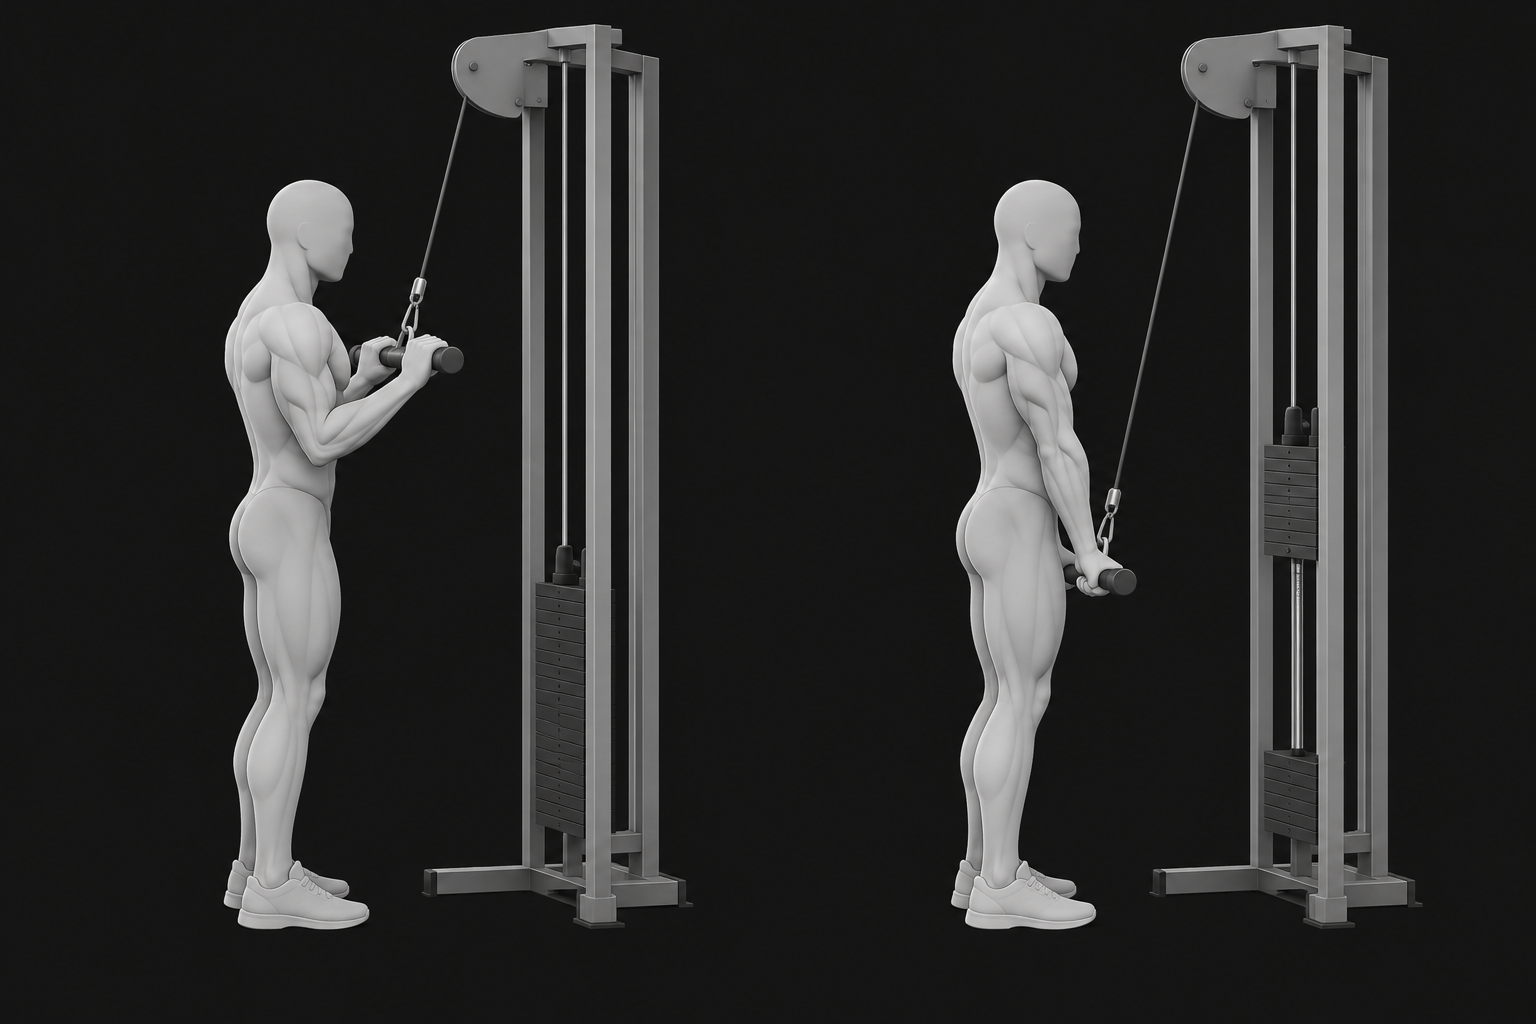
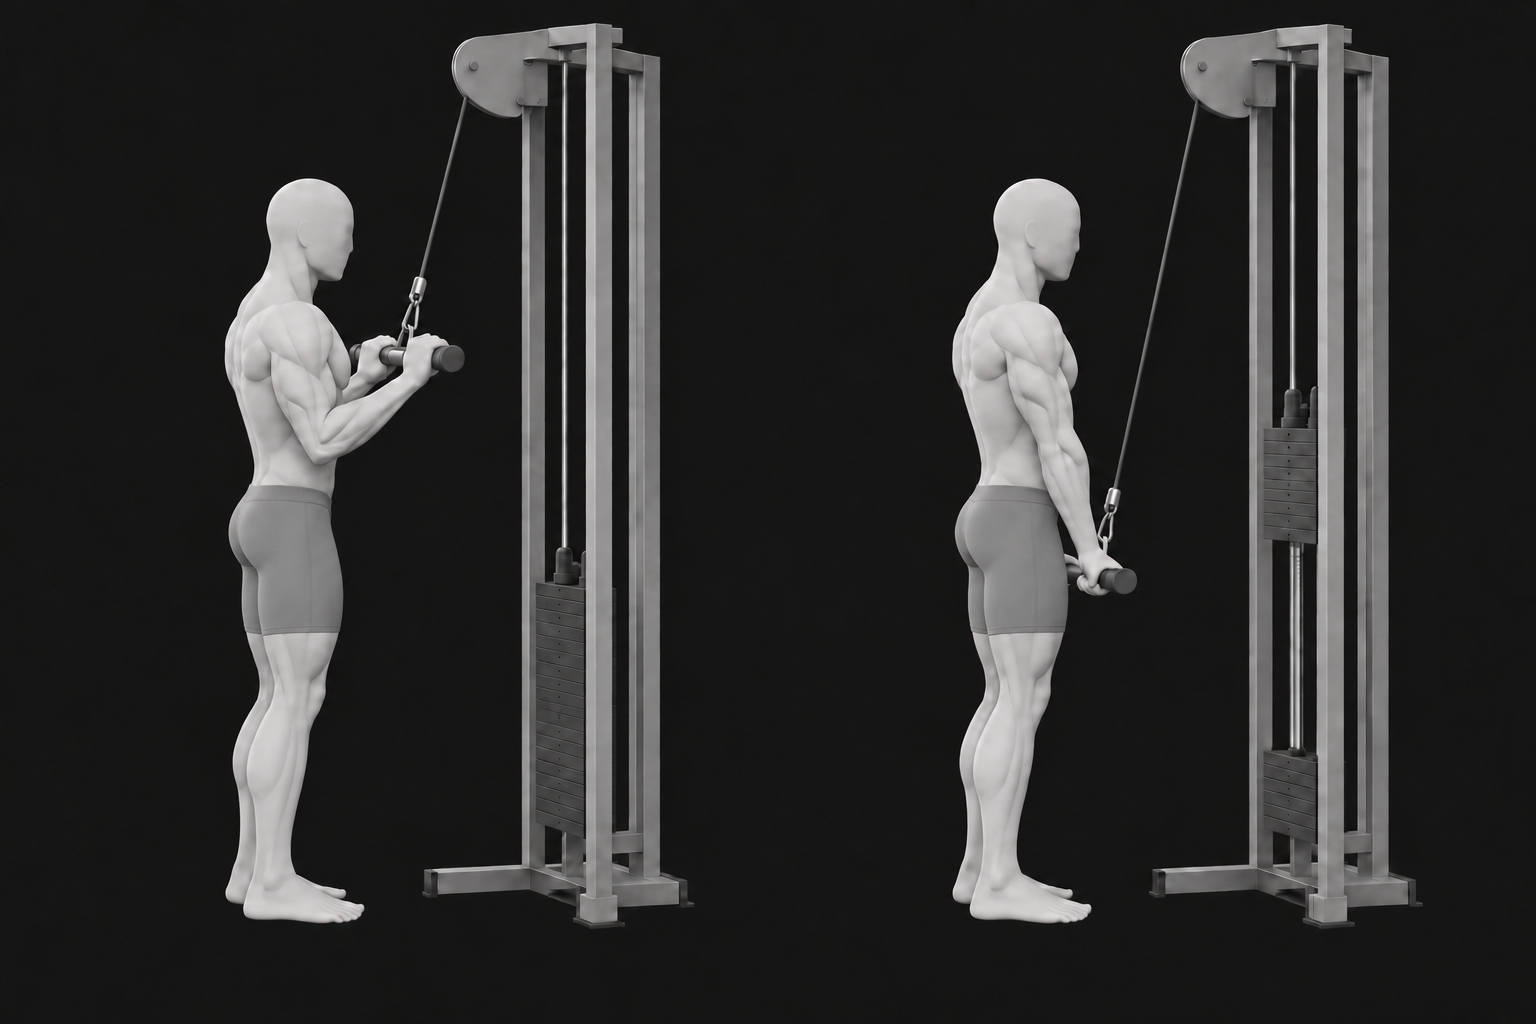
Exercise images: approved pushdown becomes the style reference; shorts, not briefs

diff --git a/docs/exercise-images/BRIEF.md b/docs/exercise-images/BRIEF.md
@@ -22,7 +22,7 @@ so this can be filled in gradually.
 | Size | **1536 × 1024** (landscape 3:2) — ChatGPT's native landscape size |
 | Background | Solid **#171717** (near-black, matches the app) — no gradients, no floor texture |
 | Figure | One faceless, gender-neutral athletic **3D matte mannequin**, light gray **#D4D4D4**, soft studio lighting — see [`style-reference.png`](./style-reference.png) |
-| Clothing | **Barefoot.** Plain tight briefs in slightly darker gray **#9A9A9A** — in every image, not just front/back views |
+| Clothing | **Barefoot.** Plain tight mid-thigh compression shorts in slightly darker gray **#9A9A9A** — in every image |
 | Equipment | Realistic but simple, gray tones (#737373 and darker) |
 | Accent | None — muscle highlighting is already done by the app's muscle map |
 | Text | **None** — no labels, arrows with words, logos or watermarks |
@@ -32,8 +32,8 @@ so this can be filled in gradually.
 Keep the **same figure, style, camera distance and background for every
 image** — consistency matters more than detail. Attach
 [`style-reference.png`](./style-reference.png) at the start of every new
-chat (it shows the look — but ignore its shoes; figures are barefoot in
-briefs).
+chat — it's the approved look (barefoot, gray compression shorts, same
+mannequin and machine style).
 
 No muscle highlighting in the images: the app draws a data-driven muscle
 map directly under each image, and an AI-drawn one would often disagree
@@ -47,8 +47,8 @@ with it.
 > - 1536×1024 landscape, solid #171717 background, nothing else in the scene
 > - one faceless, gender-neutral athletic 3D matte mannequin in light gray
 >   (#D4D4D4), soft studio lighting, realistic gray gym equipment
-> - barefoot (no shoes or socks), wearing plain tight briefs in a slightly
->   darker gray (#9A9A9A) — same in every image
+> - barefoot (no shoes or socks), wearing plain tight mid-thigh compression
+>   shorts in a slightly darker gray (#9A9A9A) — same in every image
 > - correct anatomy and joint angles; realistic proportions
 > - no text, labels, arrows, logos or watermarks
 > - side view unless I say otherwise
